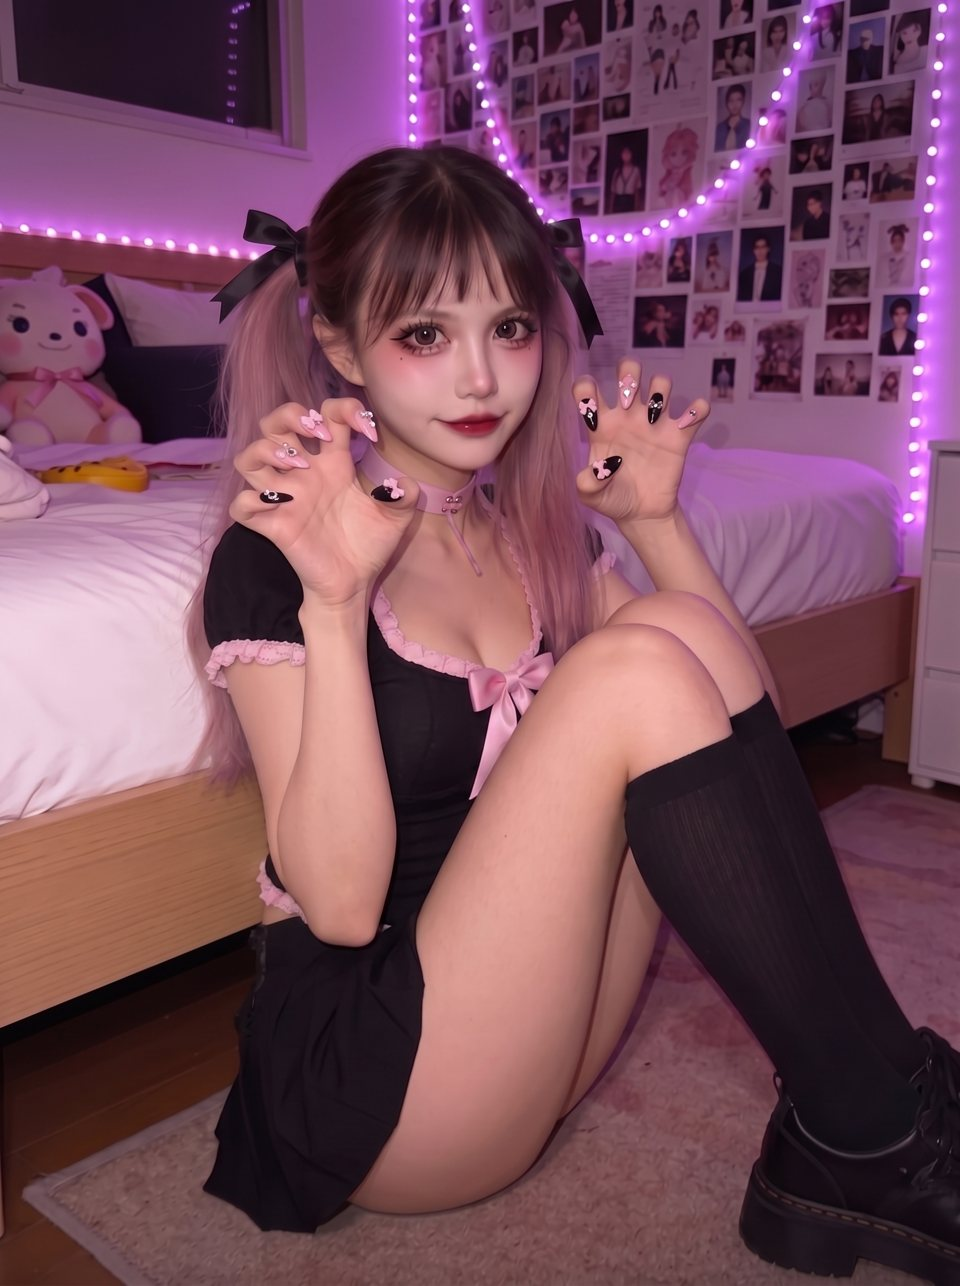
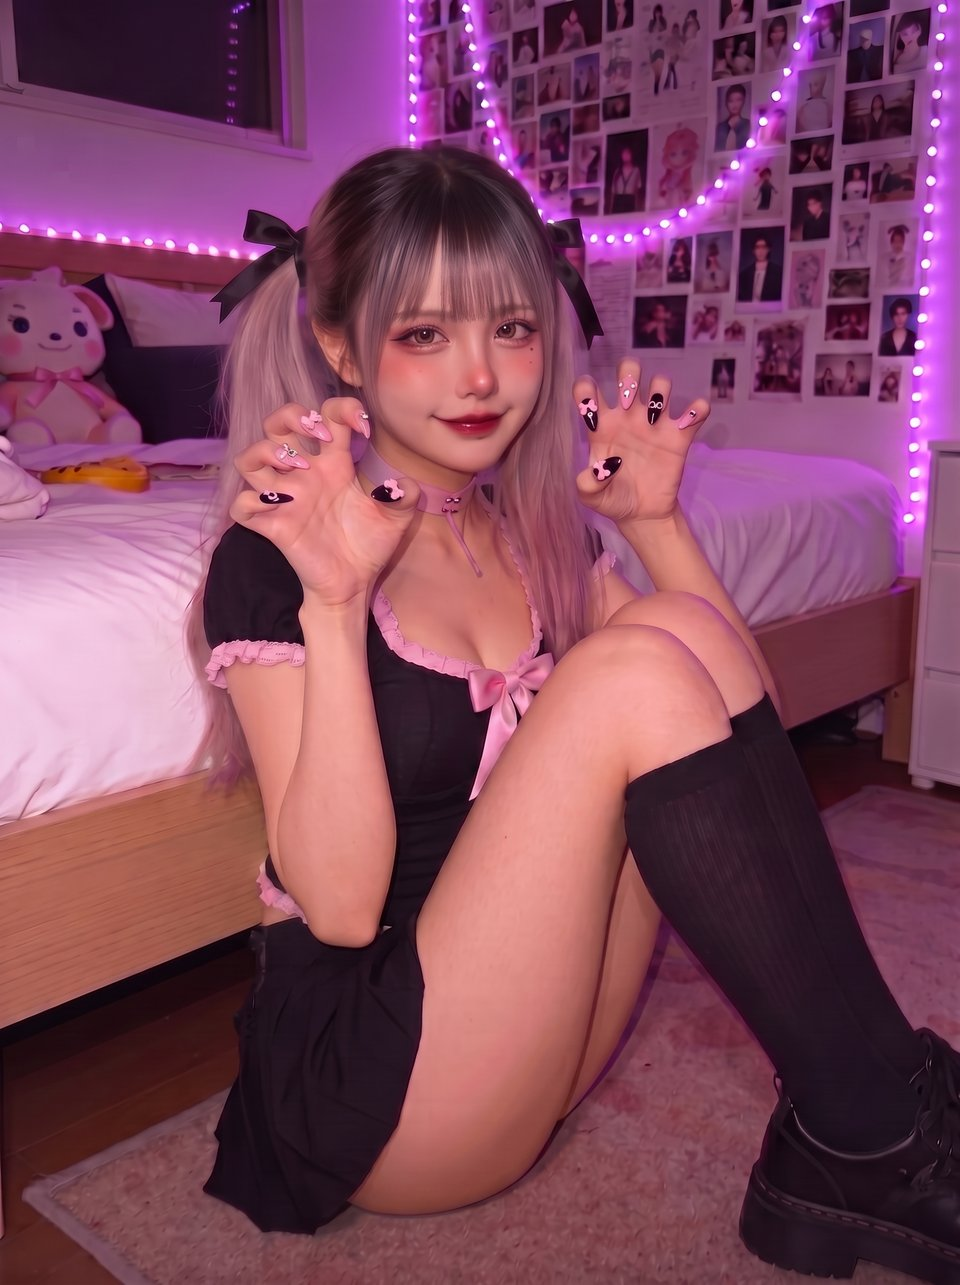
Finalize Kanon portrait v2 (v4 face, skin matched); catalog updated
Claude-Session: https://claude.ai/code/session_01Ew2uW1TgMHtHduaG53aSna

diff --git a/production/modeling_runs/2026-10-12_pioneer4/catalog/index.html b/production/modeling_runs/2026-10-12_pioneer4/catalog/index.html
@@ -136,7 +136,7 @@ footer{margin-top:40px;font-size:12.5px;color:var(--muted);display:grid;gap:4px}
   <section class="sheet" id="kanon" style="--c:var(--c-kanon)">
     <div class="gallery">
       <figure class="photo">
-        <img src="img/kanon.jpg" alt="Kanon 定稿：粉色雙馬尾、黑蝴蝶結、地雷妝紅唇，坐在臥室地板做貓爪手勢，指甲是黑粉美甲" loading="lazy">
+        <img src="img/kanon.jpg" alt="Kanon 定稿：灰粉漸層雙馬尾、黑蝴蝶結、地雷妝紅唇，坐在臥室地板做貓爪手勢，指甲是黑粉美甲" loading="lazy">
         <p class="quote">喵～抓到你了🐾
 從今天開始你就是我的貓奴，不准再去按別人的讚喔💢
 …騙你的啦。
@@ -160,7 +160,7 @@ footer{margin-top:40px;font-size:12.5px;color:var(--muted);display:grid;gap:4px}
         <div><dt>身高</dt><dd>155 cm</dd></div>
         <div><dt>三圍</dt><dd>B84 W58 H86</dd></div>
         <div><dt>罩杯</dt><dd>65D</dd></div>
-        <div><dt>招牌</dt><dd class="txt">粉色雙馬尾、地雷妝、黑粉美甲</dd></div>
+        <div><dt>招牌</dt><dd class="txt">灰粉漸層雙馬尾、地雷妝、黑粉美甲</dd></div>
       </dl>
       <div class="block">
         <h3>個性分層</h3>

diff --git a/production/modeling_runs/2026-10-12_pioneer4/REPORT.md b/production/modeling_runs/2026-10-12_pioneer4/REPORT.md
@@ -1955,3 +1955,10 @@ Scene: cream brick wall with dark wood beams, blue sky with clouds at the top le
 - 第 2 步（本機，0 點）：在 f23ccb87 上量臉頰與前臂的平均膚色（臉頰 RGB 236/155/156、前臂 229/138/135），以羽化橢圓遮罩（臉＋脖子）把臉的顏色往前臂的比例調整 85%；調整後臉頰 230/140/138，與前臂一致。邊界看不出接縫；瀏海靠近臉的部分略變暖。檔案在執行者端（k1_v4d_local.png），定稿時再存進 社群媒體/kanon。
 - 狀態：候選，等製作師決定。
 - 點數：2 點。
+
+## 定稿（2026-10-13，製作師決定）：Kanon 形象照 v2 ＝ f23ccb87＋本機膚色修正
+
+- **Kanon 形象照（第一張）定稿改為 v2**：job `f23ccb87-921b-4bc5-b766-40d6542c234f` 再經本機臉部膚色修正（追加 94）。鏈：404 → d8b7859c（表情照 404、五官 v4）→ f23ccb87（膚色模型調整）→ 本機膚色對齊身體。
+- 最終檔：`社群媒體/kanon/kanon_v2_jobf23ccb87_skinfix.jpg`（JPEG 品質 95），取代 `kanon_v1_job404_ce9d284c.jpg`（已從 repo 移除；job 404 仍在 Higgsfield）。
+- 第二張定稿維持 `b6674da3`（追加 91）。兩張並排確認為同一人（臉型、眼妝、眼下痣、紅唇、灰粉漸層髮色一致）；色調差異來自場景燈光（紫色房間燈 vs 粉色房間）。
+- 身分錨：**Kanon Element v4 `38c439f5-d90e-4038-b3cd-97b8e1f7c6f3`**（追加 91～92）。型錄的形象照與招牌欄（灰粉漸層雙馬尾）已更新。
